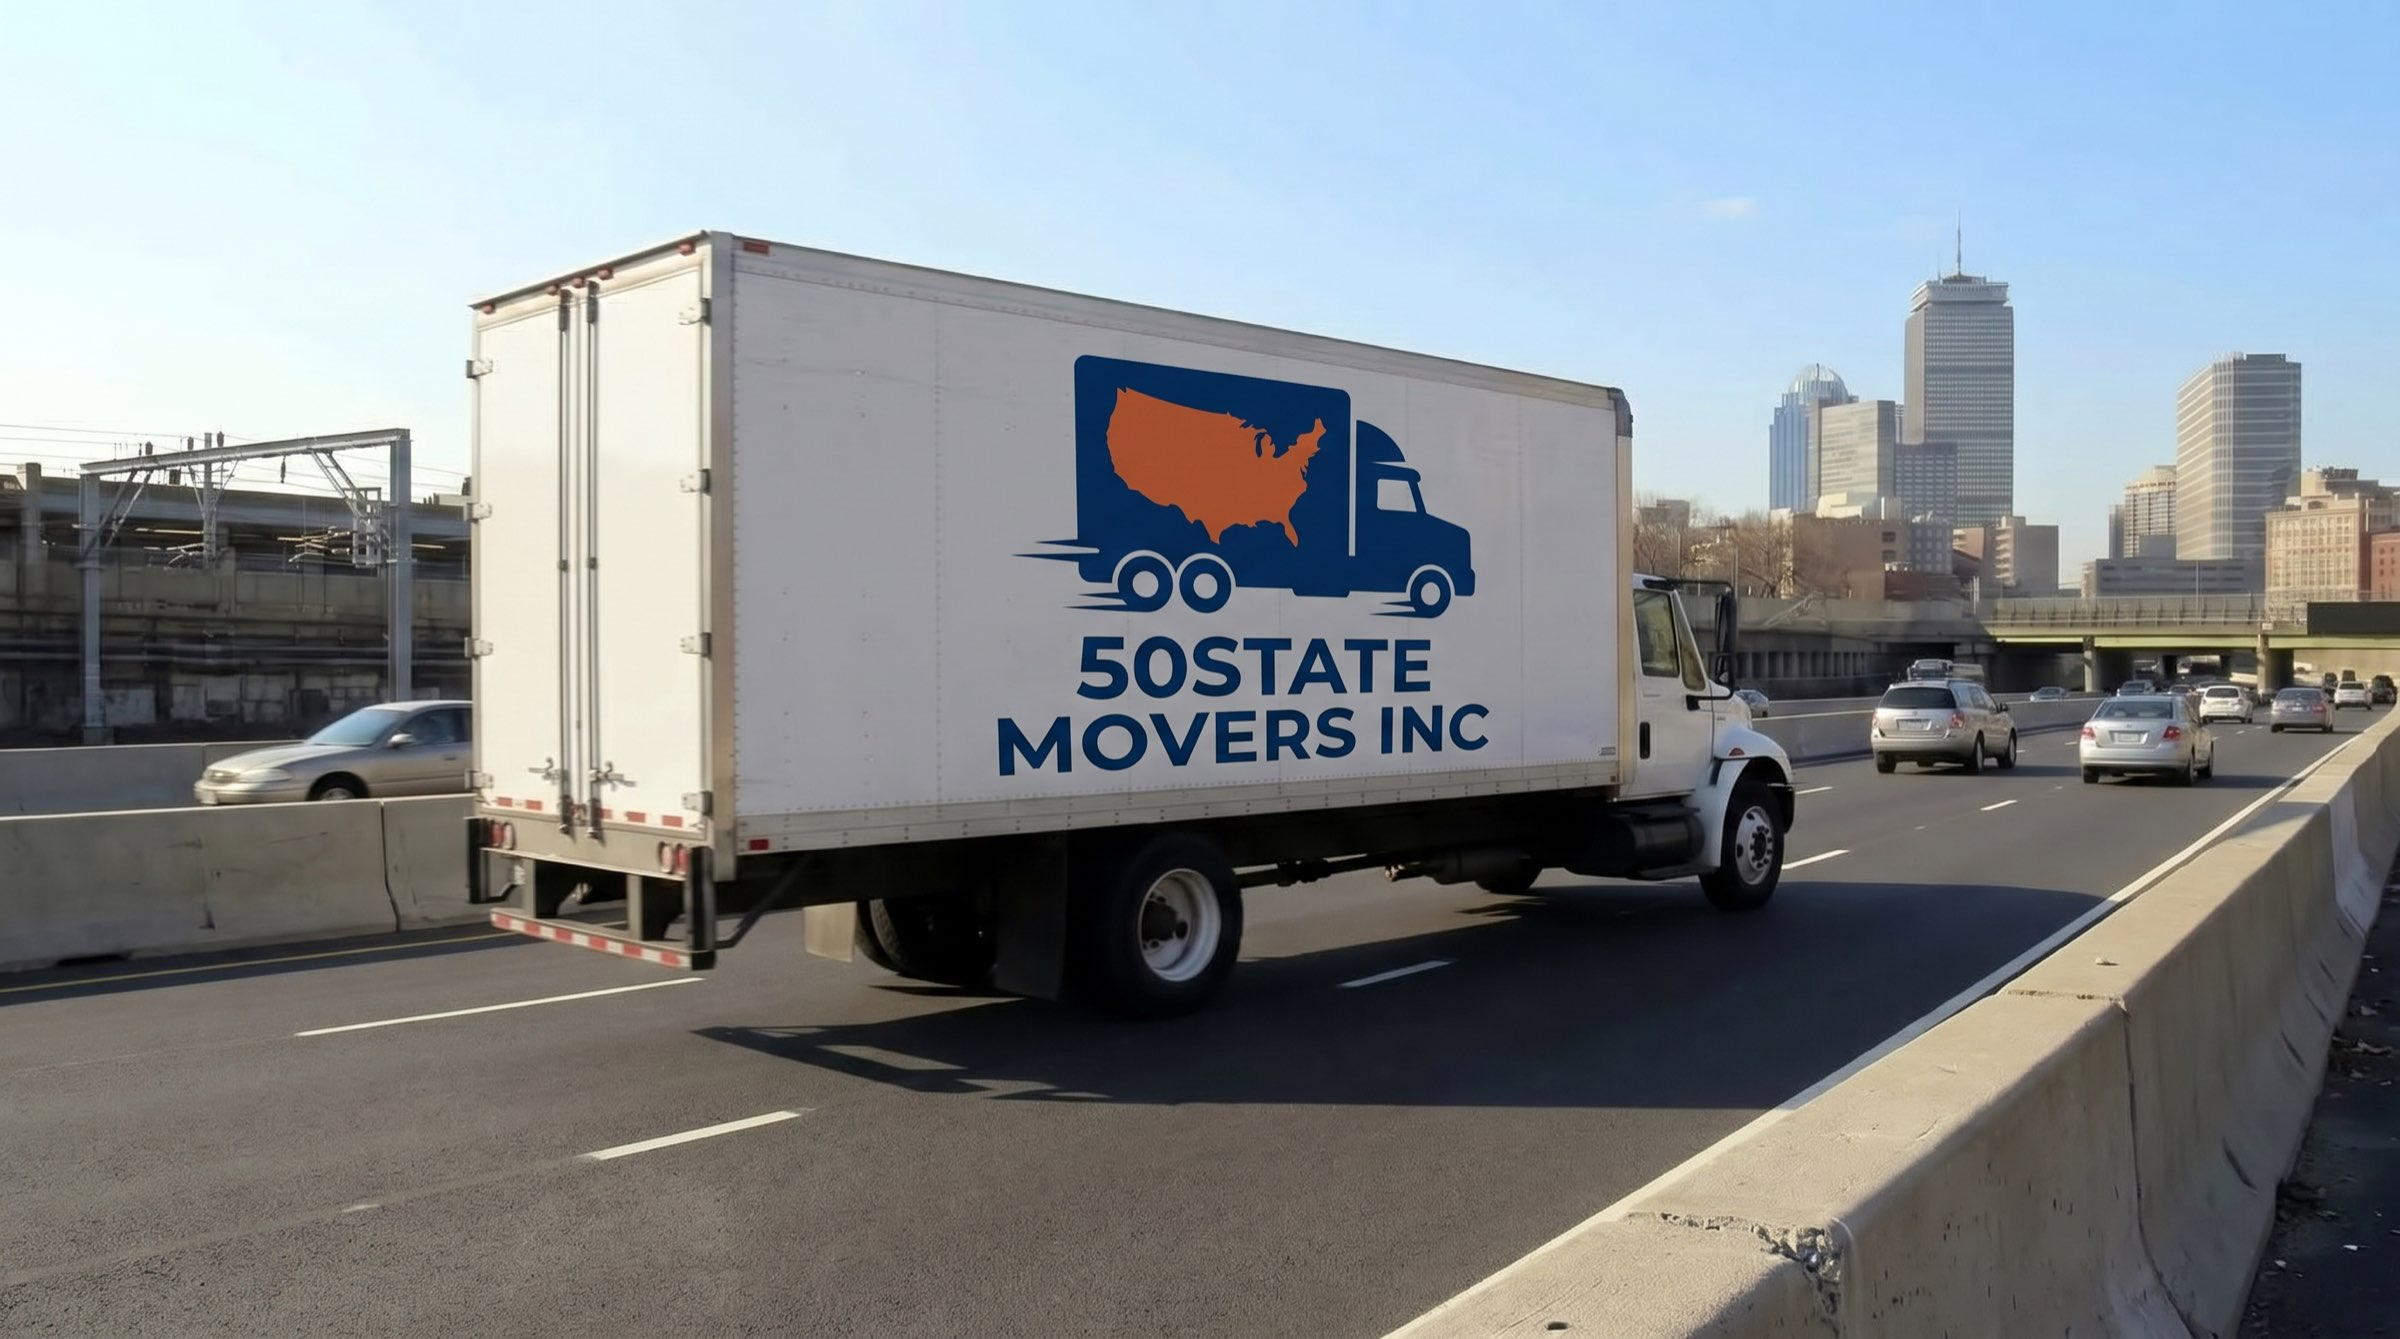
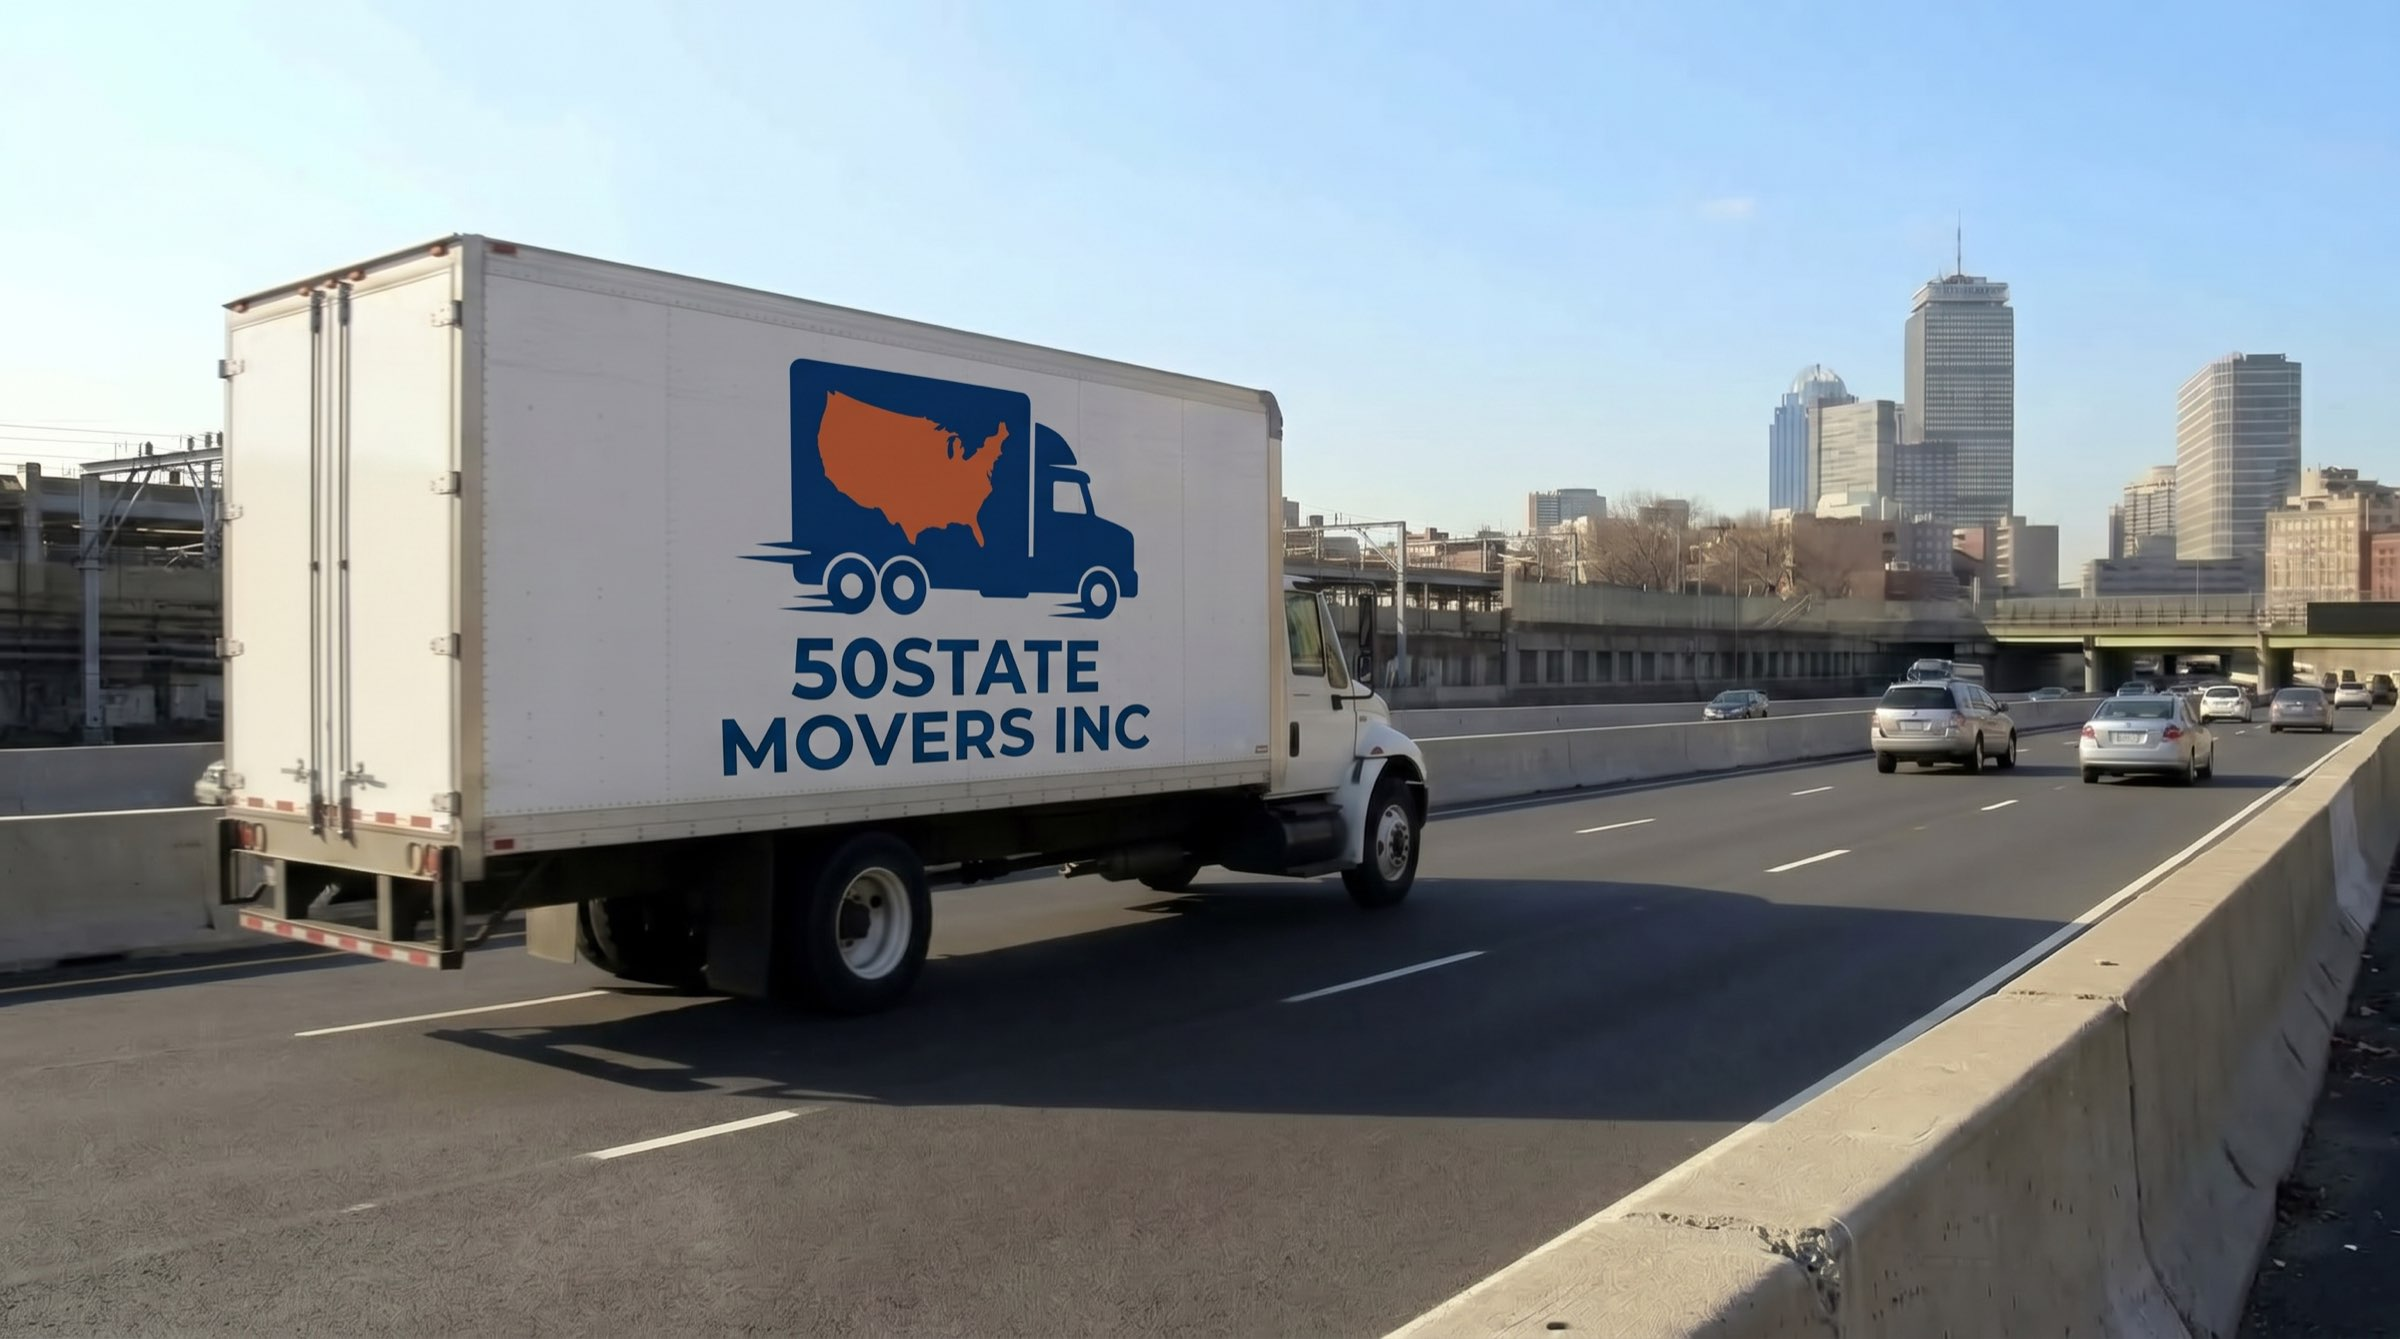
Swap in the reshot Massachusetts desktop hero
Truck pulled further left in the frame, 9% to 60% rather than 20% to 75%, so
more of it clears the form and the skyline sits opposite it. Same 2752x1536 in,
so no crop; cover sizing stays.

diff --git a/moving-from-massachusetts/index.html b/moving-from-massachusetts/index.html
@@ -1158,10 +1158,10 @@ body { overflow-x: clip; }
     radial-gradient(ellipse 46% 30% at 25% 50%, rgba(9, 20, 34, 0.66), rgba(9, 20, 34, 0) 100%),
     linear-gradient(180deg, rgba(9, 20, 34, 0.5) 0%, rgba(9, 20, 34, 0.18) 40%, rgba(9, 20, 34, 0.1) 72%, rgba(9, 20, 34, 0.45) 100%),
     /* Cover, centred, rather than the usual right-anchored auto 140%: this
-       truck spans 20% to 75% of its frame, and at 140% the right anchor cut
-       its rear off the left edge of a 1440 screen. Cover is the least zoom
-       that still fills the hero, which keeps the whole truck and leaves the
-       Boston skyline behind the form. */
+       truck sits left in its frame, spanning 9% to 60%, and at 140% the right
+       anchor cut its rear off the left edge of a 1440 screen. Cover is the
+       least zoom that still fills the hero, which keeps the whole truck and
+       leaves the Boston skyline opposite it. */
     var(--navy-deep) url('/assets/images/gallery/states/massachusetts/hero-bg.jpg') 50% 0% / cover no-repeat;
 }
 .hero-photo .hero-content { align-self: center; }
